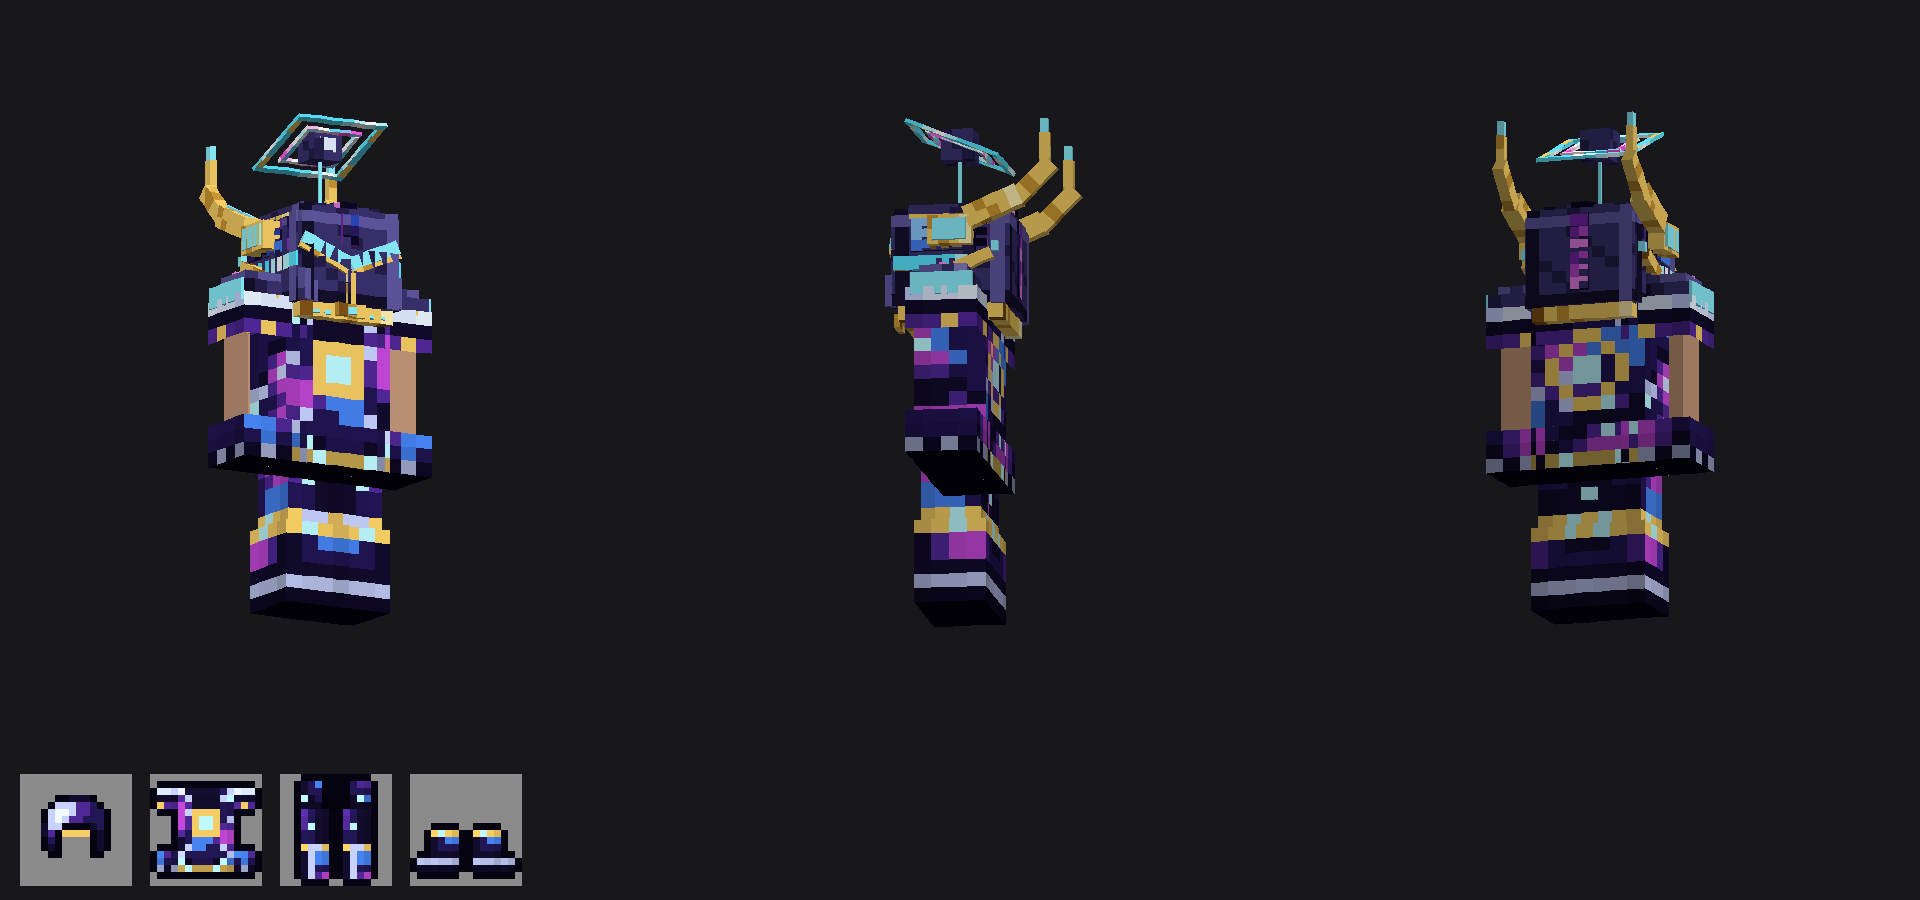
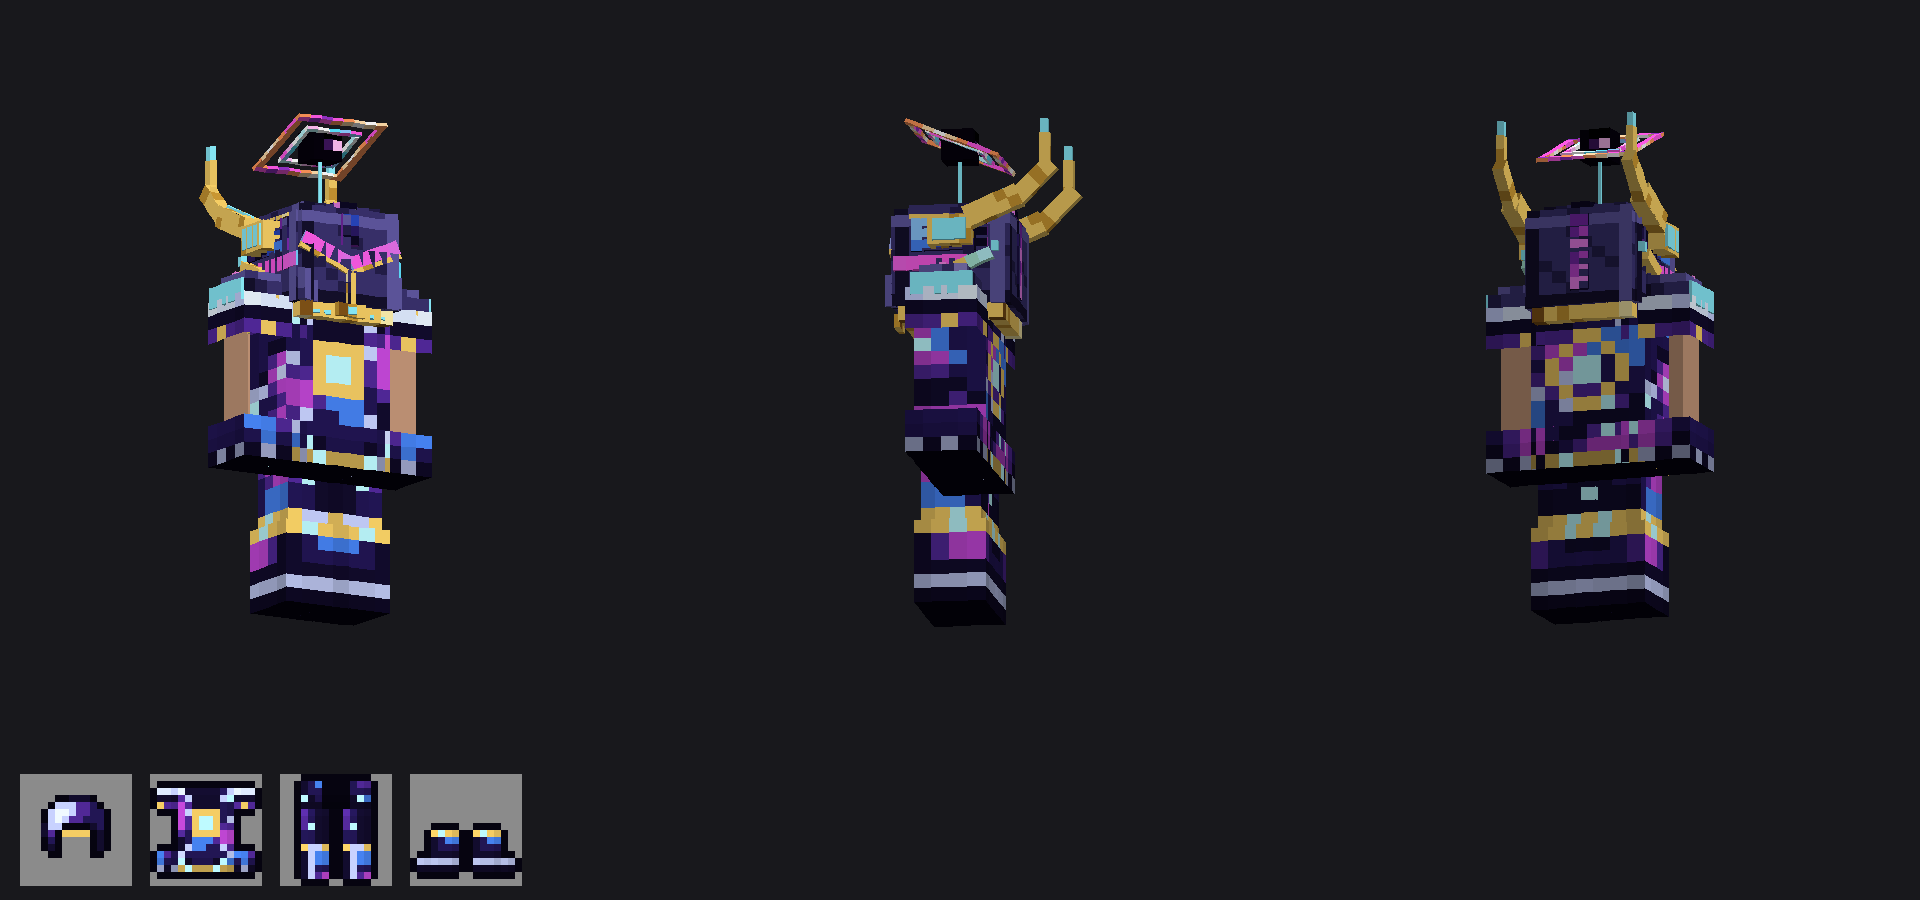
Animate the Singularity helm's visor, horns and black hole
New animated atlas regions: a colour-shifting visor with a sweeping scan
line, gold horns with energy pulsing base to tip, an accretion disk with
streaks racing round, and a black hole core whose spiral arms rotate.

Claude-Session: https://claude.ai/code/session_01WS5pyFY4Gi62yDz3jQZdtq

diff --git a/itemsadder/galactus.py b/itemsadder/galactus.py
@@ -161,6 +161,46 @@ def atlas(f=0):
     region("eye", 32, 24, 8, 8, eye)
     region("plasma", 40, 24, 8, 8, plasma)
     region("flame2", 48, 24, 16, 16, lambda x, y, w, hh: flame((x + 5) % w, y, w, hh))
+
+    def visor(x, y, w, hh):                                   # colour-shifting visor with a sweeping scan line
+        base = lerp(GLOW_C[0], GLOW_M[0], 0.5 + 0.5 * math.sin(2 * math.pi * (f / FRAMES) + x * 0.15))
+        d = (x - f * 2) % 16
+        if d == 0:
+            return STAR[1]
+        if d in (1, 15):
+            return lerp(base, STAR[1], 0.6)
+        return base
+
+    def horn(x, y, w, hh):                                    # gold horn with energy pulsing base to tip
+        d = (x - f) % 8
+        if d == 0:
+            return GLOW_C[1]
+        if d == 1:
+            return lerp(GOLD[3], GLOW_C[0], 0.5)
+        return GOLD[2] if (x + y) % 5 else GOLD[1]
+
+    def disk(x, y, w, hh):                                    # accretion disk: hot streaks racing round
+        d = (x + f * 2) % 8
+        return [STAR[1], (255, 220, 170), (255, 150, 90), GLOW_M[0], (150, 50, 200), GLOW_M[0], (255, 150, 90),
+                (255, 220, 170)][d]
+
+    def void(x, y, w, hh):                                    # the black hole: a rotating two-armed spiral
+        cx, cy = (w - 1) / 2, (hh - 1) / 2
+        r = math.hypot(x - cx, y - cy)
+        a = math.atan2(y - cy, x - cx) + f * 2 * math.pi / FRAMES
+        arm = math.sin(2 * a - r * 0.9)
+        if r < 1.6:
+            return (0, 0, 0)
+        if arm > 0.75:
+            return GLOW_M[1] if r < 4 else NEB_M[1]
+        if arm > 0.4:
+            return (60, 20, 90)
+        return (6, 2, 12)
+
+    region("visor", 0, 40, 32, 4, visor)
+    region("horn", 0, 44, 32, 4, horn)
+    region("disk", 0, 48, 32, 4, disk)
+    region("void", 32, 40, 16, 16, void)
     return img
 
 
@@ -465,8 +505,8 @@ def helmet_parts():
         part("inlay_crest", (-0.8, 32.6, -4.75), (0.8, 33.1, 4.75), "nebula", glow=True),
         part("inlay_back", (-0.8, 25.6, 5), (0.8, 32, 5.08), "nebula", glow=True),
         # V-shaped scanner visor, swept up towards the temples
-        part("visor_r", (0, 27.3, -5.14), (4.9, 28.4, -4.98), "glow_c", glow=True, rot=("z", 22.5, (0, 27.85, -5.06))),
-        part("visor_l", (-4.9, 27.3, -5.14), (0, 28.4, -4.98), "glow_c", glow=True, rot=("z", -22.5, (0, 27.85, -5.06))),
+        part("visor_r", (0, 27.3, -5.14), (4.9, 28.4, -4.98), "visor", glow=True, rot=("z", 22.5, (0, 27.85, -5.06))),
+        part("visor_l", (-4.9, 27.3, -5.14), (0, 28.4, -4.98), "visor", glow=True, rot=("z", -22.5, (0, 27.85, -5.06))),
         part("visor_rim_r", (0, 26.9, -5.1), (4.9, 27.3, -4.95), "gold", rot=("z", 22.5, (0, 27.85, -5.06))),
         part("visor_rim_l", (-4.9, 26.9, -5.1), (0, 27.3, -4.95), "gold", rot=("z", -22.5, (0, 27.85, -5.06))),
         part("prow", (-0.35, 24.4, -5.25), (0.35, 27, -5.02), "gold"),
@@ -478,30 +518,29 @@ def helmet_parts():
         # the black hole hovering above the head
         part("chin_point", (-1.3, 23.3, -5.35), (1.3, 24.4, -4.9), "gold"),
         part("chin_glow", (-0.4, 23.5, -5.4), (0.4, 24.1, -5.35), "glow_c", glow=True),
-        part("singularity", (-1.3, 37.4, -1.3), (1.3, 40, 1.3), "steel"),
-        part("singularity_glow", (-0.7, 38.1, -1.35), (0.7, 39.3, -1.3), "glow_w", glow=True),
+        part("singularity", (-1.3, 37.4, -1.3), (1.3, 40, 1.3), "void", glow=True),
     ]
     o = (0, 38.7, 0)                                          # double accretion disk, tilted
-    for ring_name, r, t, mat in (("disk", 4.2, 0.6, "ring"), ("disk_inner", 2.6, 0.4, "plasma")):
+    for ring_name, r, t, mat in (("disk", 4.2, 0.6, "disk"), ("disk_inner", 2.6, 0.4, "plasma")):
         for nm, frm, to in (("n", (-r, 38.55, -r), (r, 38.85, -r + t)), ("s", (-r, 38.55, r - t), (r, 38.85, r)),
                             ("w", (-r, 38.55, -r + t), (-r + t, 38.85, r - t)),
                             ("e", (r - t, 38.55, -r + t), (r, 38.85, r - t))):
             p.append(part(f"{ring_name}_{nm}", frm, to, mat, glow=True, rot=("x", 22.5, o)))
     p += mirror([
         part("helm_side", (4.4, 24.4, -4.6), (4.9, 32, 4.6), "steel"),
-        part("visor_side", (4.9, 27.3, -4.7), (5.02, 28.5, 1.5), "ring", glow=True),
+        part("visor_side", (4.9, 27.3, -4.7), (5.02, 28.5, 1.5), "visor", glow=True),
         part("gorget_side", (3.2, 23.2, -3.2), (4.4, 24.6, 3.2), "gold"),
         part("side_panel", (4.9, 28.9, -3.2), (5.02, 31.7, 3.2), "nebula", glow=True),
         part("side_frame", (4.9, 31.7, -3.4), (5.05, 32, 3.4), "gold"),
         # big swept-back horns from the temples
-        part("horn0", (4.5, 29.2, -1.6), (6.4, 31.6, 2), "gold"),
-        part("horn1", (5, 30.5, 1.6), (6.4, 32.3, 6.4), "gold", rot=("x", -22.5, (5.7, 31.4, 1.6))),
-        part("horn2", (5.3, 32.2, 5.8), (6.2, 33.6, 10), "gold_d", rot=("x", -45, (5.75, 32.9, 5.8))),
-        part("horn3", (5.45, 35, 7.8), (6.05, 38.4, 8.6), "gold_d"),
+        part("horn0", (4.5, 29.2, -1.6), (6.4, 31.6, 2), "horn", glow=True),
+        part("horn1", (5, 30.5, 1.6), (6.4, 32.3, 6.4), "horn", glow=True, rot=("x", -22.5, (5.7, 31.4, 1.6))),
+        part("horn2", (5.3, 32.2, 5.8), (6.2, 33.6, 10), "horn", glow=True, rot=("x", -45, (5.75, 32.9, 5.8))),
+        part("horn3", (5.45, 35, 7.8), (6.05, 38.4, 8.6), "horn", glow=True),
         part("horn_tip", (5.5, 38.4, 7.9), (6, 39.6, 8.5), "glow_c", glow=True),
         part("horn_edge", (6.4, 29.5, -1.2), (6.55, 31.3, 1.6), "glow_c", glow=True),
         part("horn_line", (5.6, 32.3, 1.8), (5.8, 32.45, 6.2), "glow_c", glow=True, rot=("x", -22.5, (5.7, 31.4, 1.6))),
-        part("horn_low", (4.8, 26.8, 0.6), (5.6, 27.8, 3.8), "gold_d", rot=("x", -22.5, (5.2, 27.3, 0.6))),
+        part("horn_low", (4.8, 26.8, 0.6), (5.6, 27.8, 3.8), "horn", glow=True, rot=("x", -22.5, (5.2, 27.3, 0.6))),
         part("horn_low_tip", (4.95, 28.7, 3.6), (5.45, 29.5, 4.1), "glow_c", glow=True),
         part("jaw", (3.1, 24.4, -5.5), (4.9, 27, -4.9), "steel_l", rot=("y", 22.5, (4.9, 25.7, -4.9))),
         # angular pauldrons with glowing edge lines
